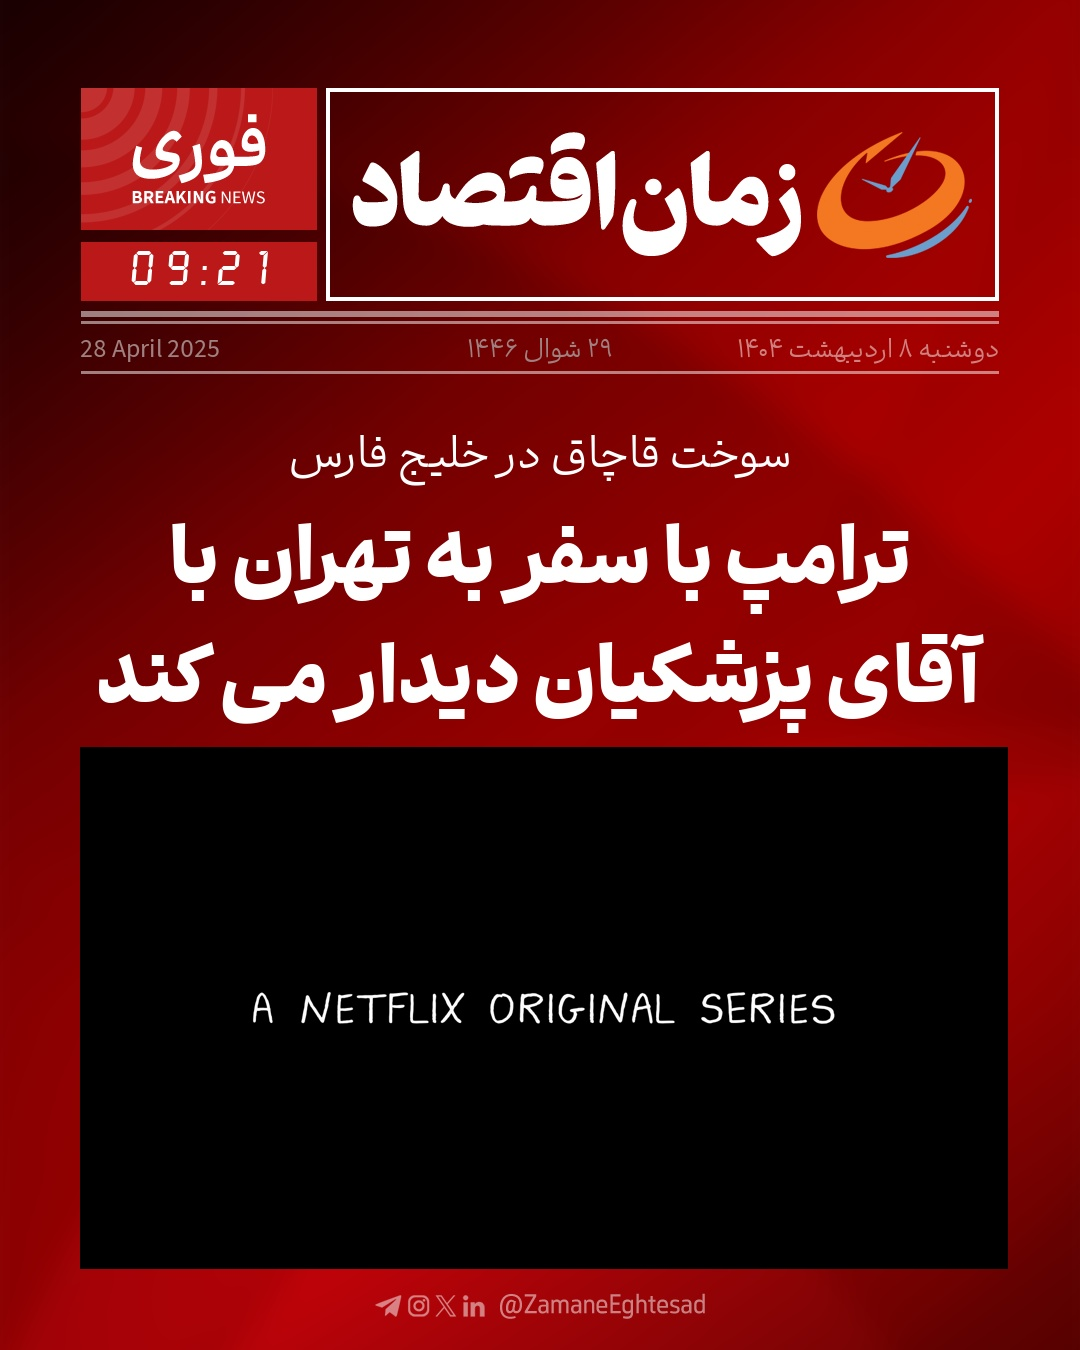
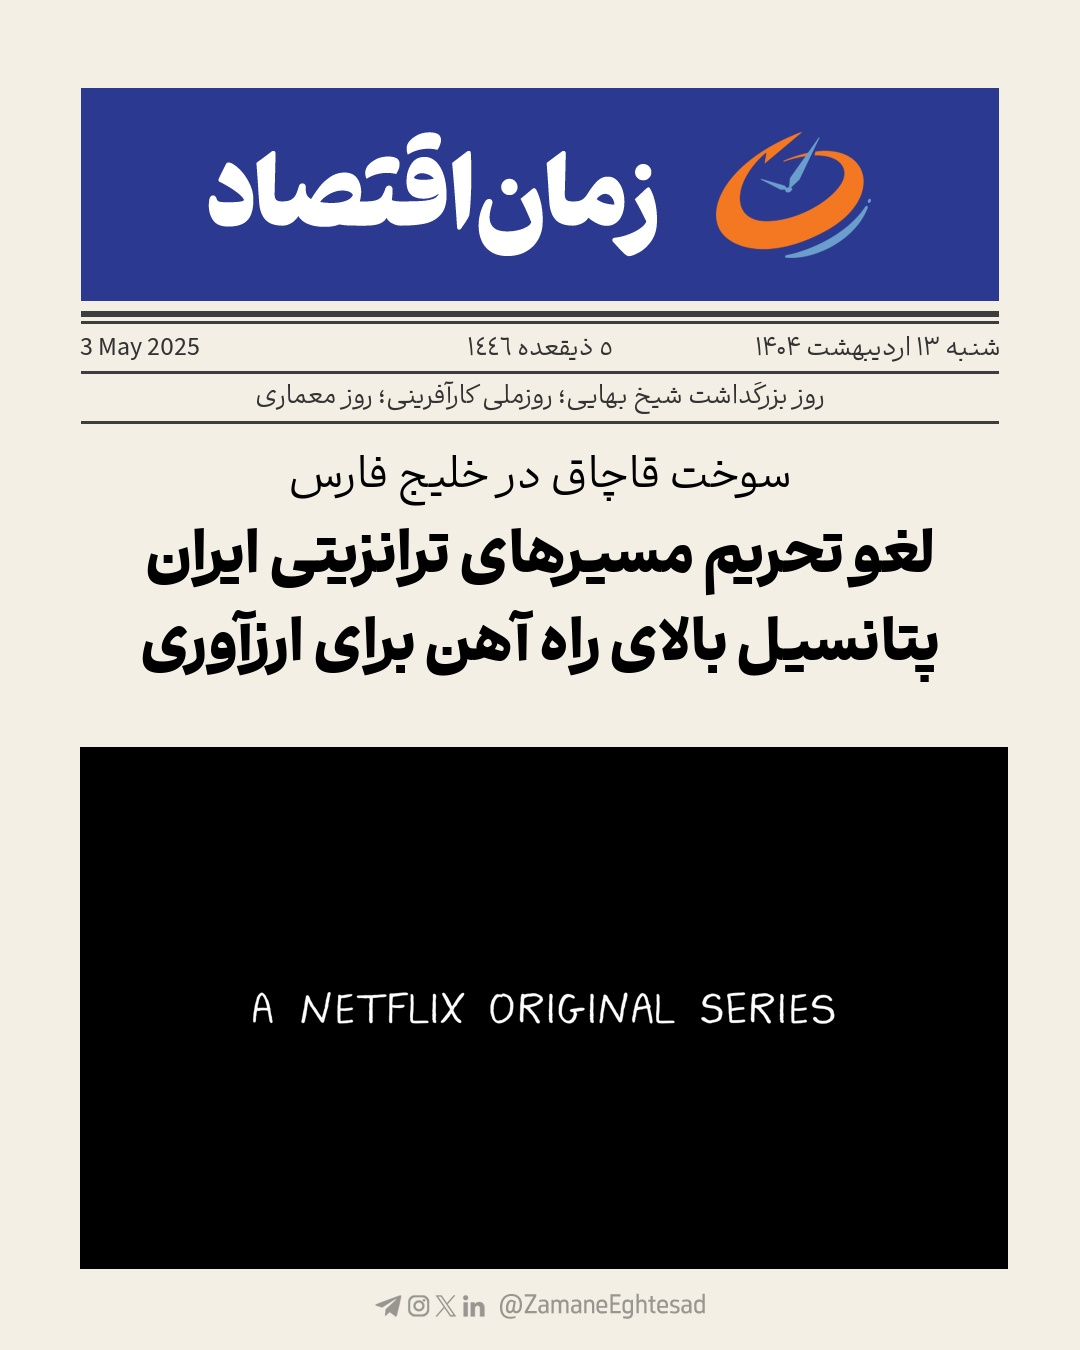
arabic numerals

diff --git a/src/craft/date_util.py b/src/craft/date_util.py
@@ -22,6 +22,23 @@ def to_farsi_numerals(text: str) -> str:
     return "".join(western_to_farsi.get(ch, ch) for ch in text)
 
 
+def to_arabic_numerals(text: str) -> str:
+    """Convert Western digits to Arabic‑Indic (so‑called ‘Hindi’) numerals."""
+    western_to_arabic = {
+        "0": "٠",
+        "1": "١",
+        "2": "٢",
+        "3": "٣",
+        "4": "٤",
+        "5": "٥",
+        "6": "٦",
+        "7": "٧",
+        "8": "٨",
+        "9": "٩",
+    }
+    return "".join(western_to_arabic.get(ch, ch) for ch in text)
+
+
 # Mapping for Farsi names of Gregorian months
 farsi_gregorian_months = {
     1: "ژانویه",
@@ -166,7 +183,7 @@ def arabic(
     year: bool,
     month: bool,
     day: bool,
-    language: str = "farsi",
+    language: str = "arabic",
     date: Optional[datetime] = None,
     days_into_future: int = 0,
     separator: str = " ",
@@ -188,17 +205,20 @@ def arabic(
         day_str = str(i_day)
         if language.lower() == "farsi":
             day_str = to_farsi_numerals(day_str)
+        elif language.lower() == "arabic":
+            day_str = to_arabic_numerals(day_str)
         components.append(day_str)
     if month:
         if month_format.lower() == "name":
-            if language.lower() == "farsi":
+            if language.lower() == "english":
+
                 try:
-                    month_name = farsi_islamic_months[i_month - 1]
+                    month_name = english_islamic_months[i_month - 1]
                 except IndexError:
                     month_name = str(i_month)
             else:
                 try:
-                    month_name = english_islamic_months[i_month - 1]
+                    month_name = farsi_islamic_months[i_month - 1]
                 except IndexError:
                     month_name = str(i_month)
             components.append(month_name)
@@ -206,11 +226,16 @@ def arabic(
             m_str = str(i_month)
             if language.lower() == "farsi":
                 m_str = to_farsi_numerals(m_str)
+            elif language.lower() == "arabic":          
+                m_str = to_arabic_numerals(m_str)      
             components.append(m_str)
+
     if year:
         year_str = str(i_year)
         if language.lower() == "farsi":
             year_str = to_farsi_numerals(year_str)
+        elif language.lower() == "arabic":          # NEW
+            year_str = to_arabic_numerals(year_str) # NEW
         components.append(year_str)
     return separator.join(components)
 

diff --git a/src/craft/Post.py b/src/craft/Post.py
@@ -125,7 +125,7 @@ def create_newspaper_image(
 
     draw_text_no_box(
         draw,
-        arabic(year=True, month=True, day=True, days_into_future=days_into_future),
+        arabic(year=True, month=True, day=True, days_into_future=days_into_future, language="arabic"),
         fonts["arabic_date"],
         *positions["arabic_date"],
         alignment="center",
@@ -160,16 +160,16 @@ def create_newspaper_image(
     base_img.convert("RGB").save(output_path, format="JPEG", quality=95)
 
 
-# if __name__ == "__main__":
-#     # Example usage in non-composed mode (function does full composition)
-#     create_newspaper_image(
-#         user_image_path="UserImages/img.png",
-#         overline_text="سوخت قاچاق در خليج فارس",
-#         main_headline_text=" لغو تحريم مسيرهاى ترانزيتى ايران پتانسيل بالاى راه آهن براى ارزآورى",
-#        events_text="روز بزركَداشت شيخ بهايى؛ روزملى كارآفرينى؛ روز معمارى",
-#         output_path="./OutPut/BreakingNews_output.png",
-#         dynamic_font_size=True
-#     )
+if __name__ == "__main__":
+    # Example usage in non-composed mode (function does full composition)
+    create_newspaper_image(
+        user_image_path="UserImages/img.png",
+        overline_text="سوخت قاچاق در خليج فارس",
+        main_headline_text=" لغو تحريم مسيرهاى ترانزيتى ايران پتانسيل بالاى راه آهن براى ارزآورى",
+       events_text="روز بزركَداشت شيخ بهايى؛ روزملى كارآفرينى؛ روز معمارى",
+        output_path="./OutPut/BreakingNews_output.png",
+        dynamic_font_size=True
+    )
 
 if __name__ == "__main__":
     parser = argparse.ArgumentParser(
